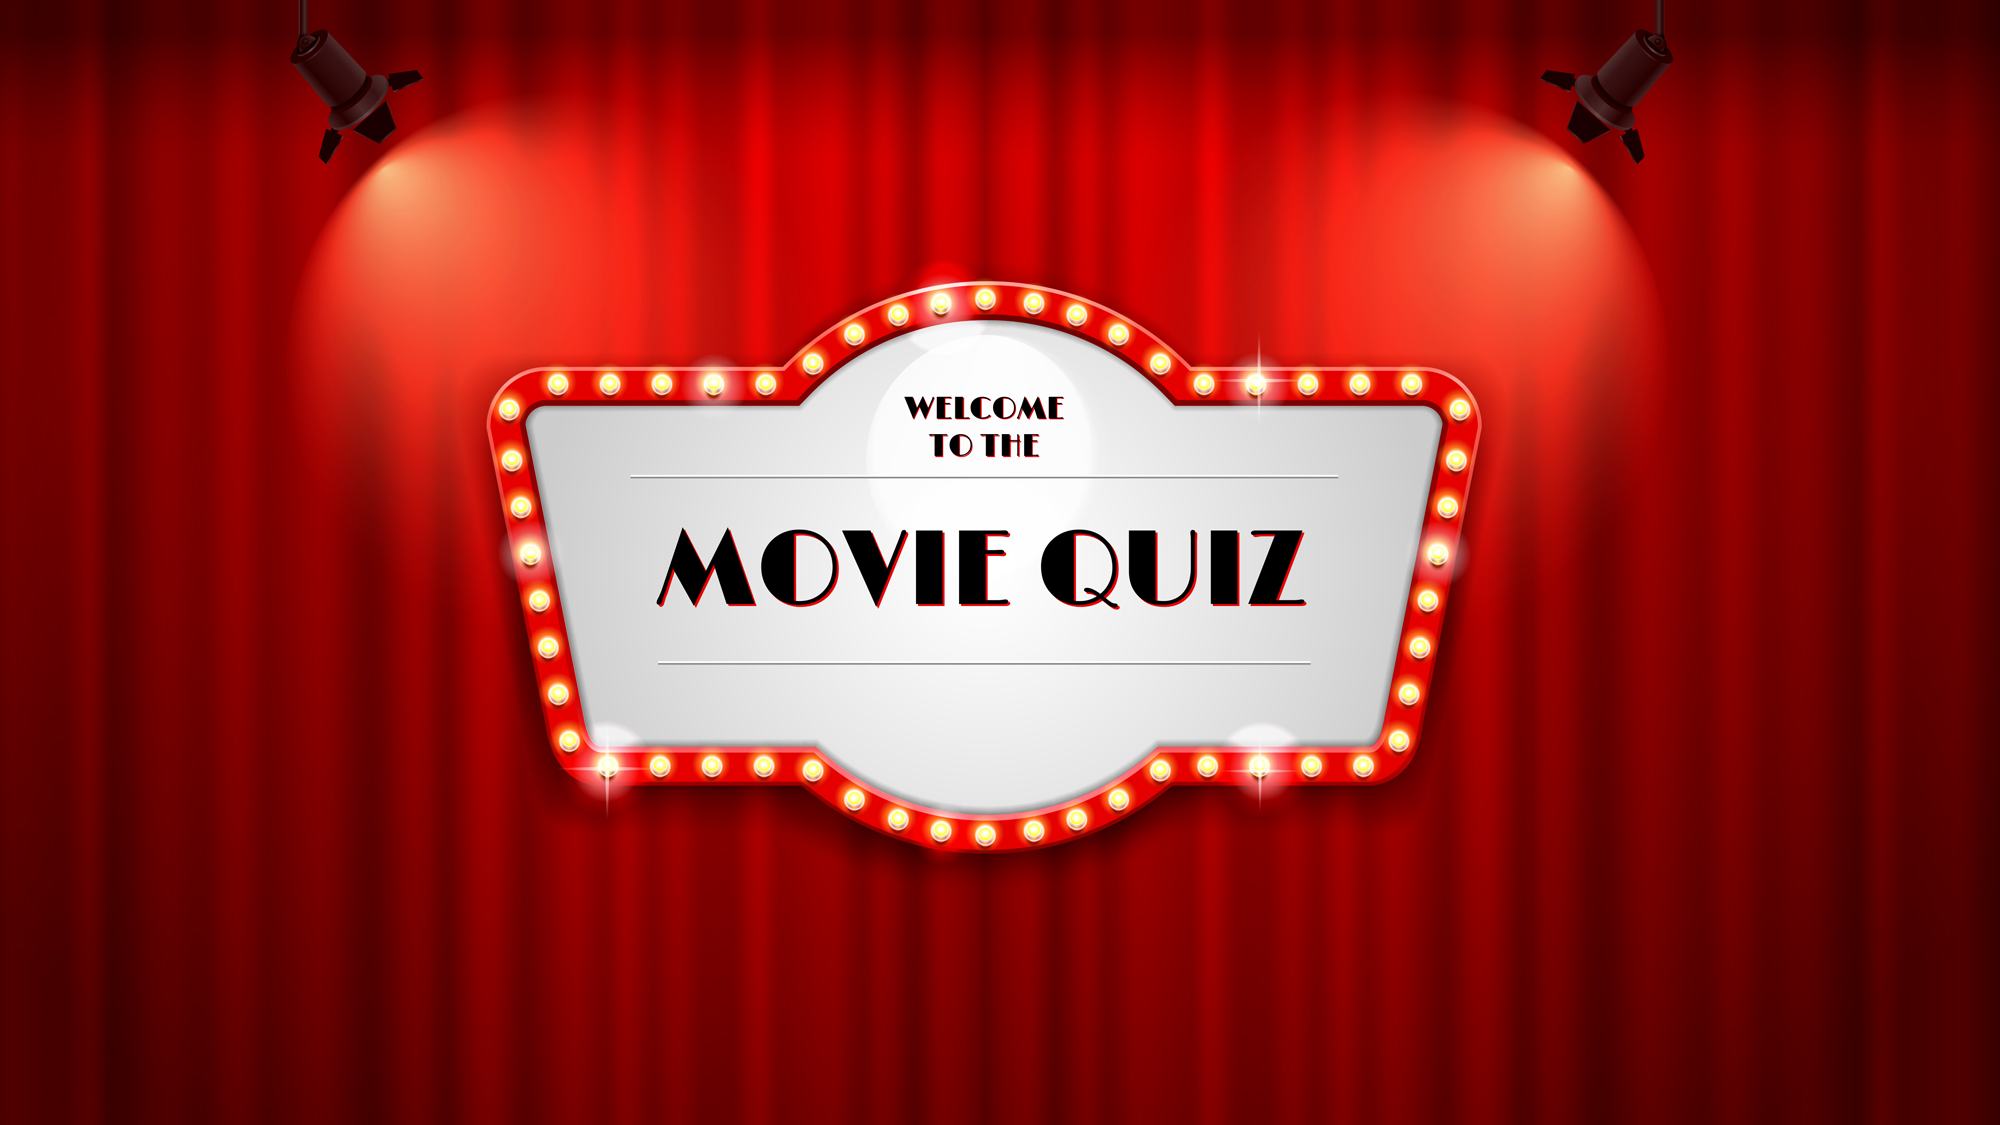
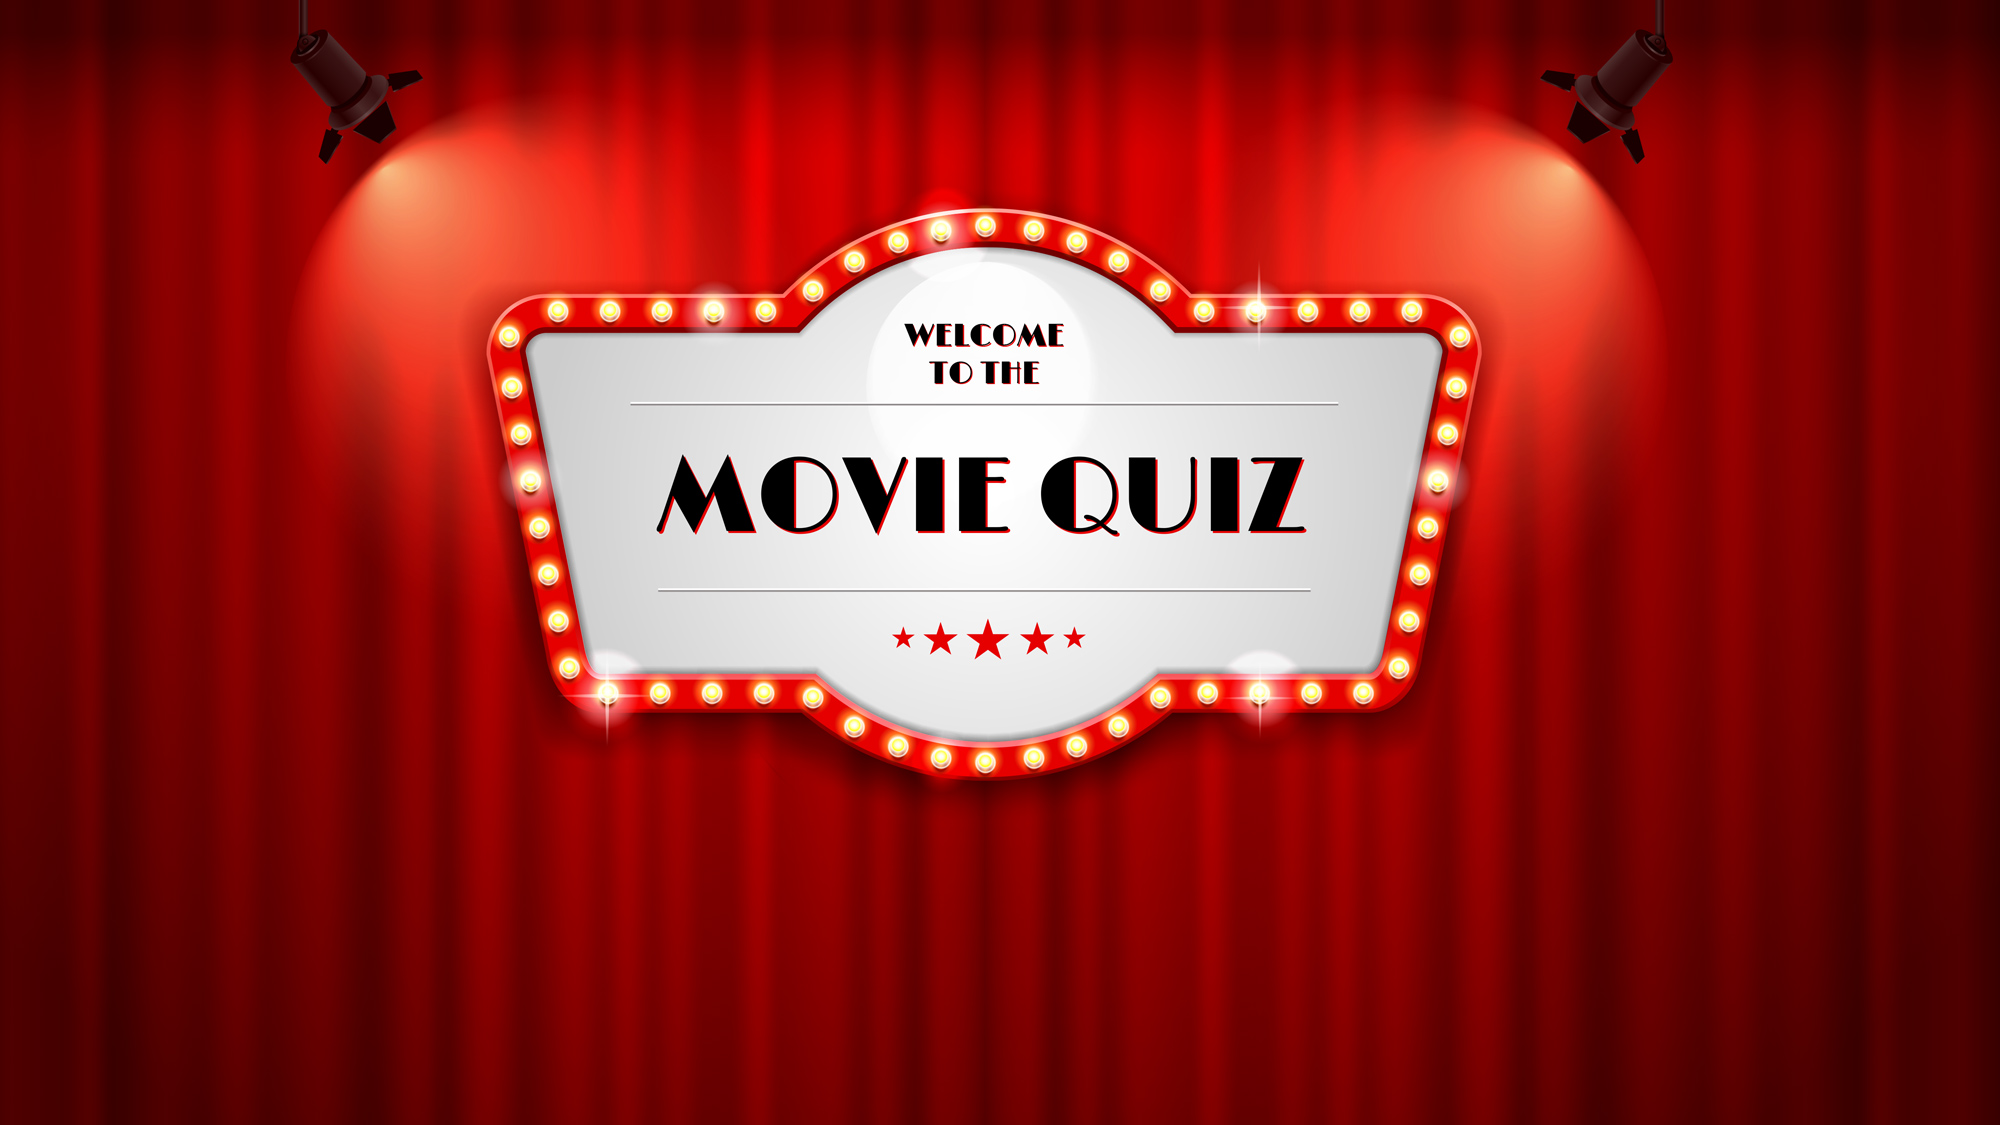
Updated background on summary and some css on frontpage

Changed region(s): [[0.217, 0.1556, 0.775, 0.7778]]

diff --git a/src/components/Summary.css b/src/components/Summary.css
@@ -3,12 +3,12 @@
   justify-content: center;
   align-items: center;
   height: 100vh;
-  background-image: url("/assets/movie-quiz-background.jpg");
+  background-image: url("/assets/background-summary.jpg");
   background-size: cover;
 }
 
 .summary {
-  height: 80vh;
+  height: 60vh;
   width: 70vw;
   max-width: 800px;
   background-color: #ffffff10;
@@ -45,7 +45,7 @@ p {
 .restart-button {
   font-family: 'Limelight', cursive;
   position: absolute;
-  top: 87%;
+  top: 90%;
   left: 50%;
   transform: translate(-50%, -50%);
   -ms-transform: translate(-50%, -50%);
@@ -62,8 +62,7 @@ p {
   animation: pulse 2s infinite;
 }
 
-
-@-webkit-keyframes pulse {
+@keyframes pulse {
   0% {
       -webkit-box-shadow: 0 0 0 0 rgba(255, 255, 255, 0.9);
   }
@@ -89,4 +88,6 @@ p {
       box-shadow: 0 0 0 0 rgba(255, 255, 255, 0);
   }
 }
+
+
 

diff --git a/src/components/StartPage.css b/src/components/StartPage.css
@@ -105,9 +105,9 @@
     }
     .start-button {
         left: 49%;
-        top: 63%;
+        top: 78%;
         text-shadow: 1px 1px #ffffff;
         font-size: 22px;
-}
+        }
 
 }
